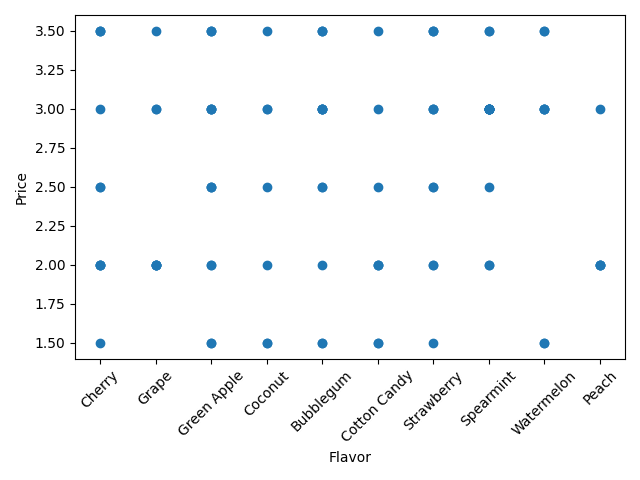
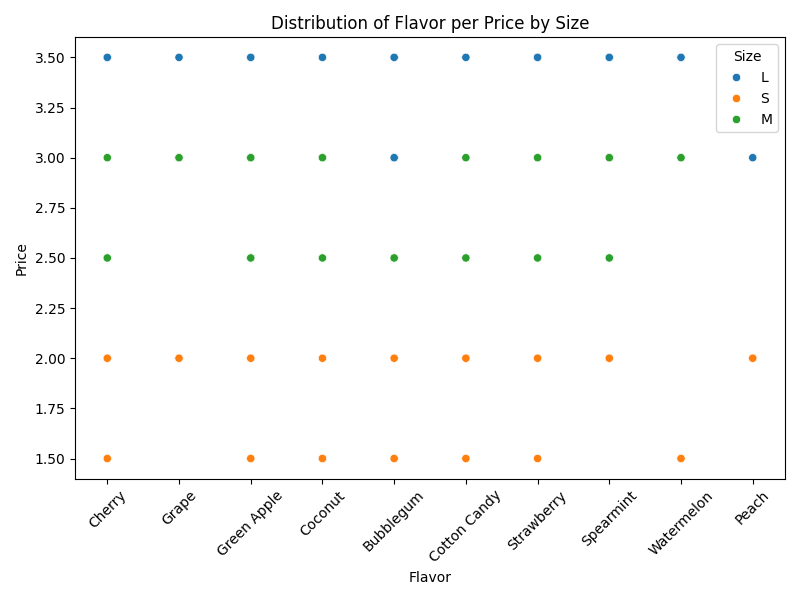
changed violin and scatterplot to seaborn

diff --git a/Lib/Data_Frame.py b/Lib/Data_Frame.py
@@ -34,6 +34,8 @@ import logging
 import os
 import pandas as pd
 import matplotlib.pyplot as plt
+import seaborn as sb
+
 #%% USER INTERFACE ~~~~~~~~~~~~~~~~~~~~~~~~~~~~~~~~~~~~~~~~~~~~
 
 #%% CONSTANTS ~~~~~~~~~~~~~~~~~~~~~~~~~~~~~~~~~~~~~~~~~~~~
@@ -85,18 +87,17 @@ class Data_Frame(Frequency):
             logger.error(f"Error: Column '{column}' not found in dataset.")
             return
 
+        
         plot_path = f'output/{column.lower()}_violin.png'
-
-        counts = self.data[column].value_counts()
-        plt.violinplot(counts)
+        temp = pd.DataFrame({column: self.data[column]})
+        #plt.figure(figsize=(6,8))
+        sb.violinplot(data = temp, y = column)
         plt.title(f'Distribution of {column}')
-        plt.xlabel(column)
-        plt.xticks([])
-        plt.ylabel('Frequency')
-
-        plt.tight_layout()
+        plt.xlabel('Number Purchased')
+        plt.ylabel(column)
         plt.savefig(plot_path)
         plt.close()
+        
         logger.info(f"Plot for '{column}' saved to {plot_path}")
 
     def visualize_boxplot(self, column):
@@ -120,7 +121,7 @@ class Data_Frame(Frequency):
         plt.close()
         logger.info(f"Plot for '{column}' saved to {plot_path}")
 
-    def visualize_scatterplot(self, column1,column2):
+    def visualize_scatterplot(self, column1,column2, column3):
         if self.data.empty:
             logger.warning("No data available to visualize.")
             return
@@ -135,7 +136,11 @@ class Data_Frame(Frequency):
 
         plot_path = f'output/{column1.lower()}_{column2.lower()}_scatterplot.png'
         #counts = self.data[column].value_counts()
-        plt.plot(self.data[column1],self.data[column2],ls='',marker='o')
+        #plt.plot(self.data[column1],self.data[column2],ls='',marker='o')
+            
+        plt.figure(figsize=(8,6))
+        sb.scatterplot(data=self.data, x=column1, y=column2, hue = column3)
+        plt.title(f'Distribution of {column1} per {column2} by {column3}')
         plt.xlabel(column1)
         plt.ylabel(column2)
         plt.xticks(rotation=45)

diff --git a/main.py b/main.py
@@ -79,9 +79,9 @@ def main():
     print(result)
 
     d = Data_Frame()
-    d.visualize_violin('Flavor')
+    d.visualize_violin('Price')
     d.visualize_boxplot('Size')
-    d.visualize_scatterplot('Flavor', 'Price')
+    d.visualize_scatterplot('Flavor', 'Price', 'Size')
 
     s = Sales_Calculation()
 
@@ -90,11 +90,13 @@ def main():
         print(f"Generating distribution plot for {col}...")
         s.visualize_column(col)
 
+    
     print("\nBasic Statistics for 'Price':")
     stats = s.basic_stats('Price')
     for stat_name, stat_value in stats.items():
         print(f"{stat_name.capitalize()}: {stat_value:.2f}")
-
+    
+    
     print("\nVector Operations on 'Price':")
     price_vector = s.position_vector('Price')
     unit_vec = s.unit_vector(price_vector)
@@ -130,6 +132,7 @@ def main():
     print("\nCombinations of Topping (r=2):")
     combs = s.generate_combinations('Topping', r=2)
     print(combs[:5])  
+    
 
 #
 #%% SELF-RUN ~~~~~~~~~~~~~~~~~~~~~~~~~~~~~~~~~~~~~~~~~~~~

diff --git a/Lib/Sales_Calculation.py b/Lib/Sales_Calculation.py
@@ -59,6 +59,7 @@ from Lib.Sales import Sales
 import pandas as pd
 from itertools import permutations, combinations
 import matplotlib.pyplot as plt
+import os
 #
 #custom imports
 import logging
@@ -137,3 +138,4 @@ class Sales_Calculation(Sales):
 
         except Exception as e:
             logger.error(f"Error generating stacked bar chart: {e}")
+    

diff --git a/Lib/Frequency.py b/Lib/Frequency.py
@@ -118,4 +118,4 @@ class Frequency:
         except Exception as e:
             logger.error(f"Error during query: {e}")
             return pd.DataFrame()
-
+    
